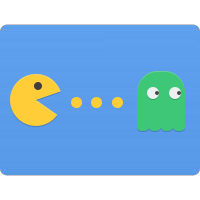
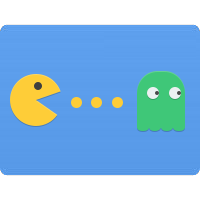
Remove white backgrounf from no_preview_button.png image.

Changed region(s): [[0.0, 0.12, 1.0, 0.15], [0.03, 0.87, 0.99, 0.9], [0.99, 0.84, 1.0, 0.87]]

diff --git a/scripts/common.js b/scripts/common.js
@@ -810,7 +810,7 @@ function imgPrev(infile, mode, gen, compare, index, dir, referer, data) {
         case 0:
            if ( gen == 0 ) {
            // Preview doesn't exist
-           html = "<img src=\"images/no_preview.jpg\" alt=\"No preview\">"
+           html = "<img src=\"images/no_preview_button.png\" alt=\"No preview\">"
                   + "<br />No preview available";
 
            } else {

diff --git a/inc/Fileserver.php b/inc/Fileserver.php
@@ -1619,7 +1619,7 @@ class Fileserver
             $ret = "<img src=\"file_management.php?getThumbnail=$thumb&amp;" .
                 "dir=$dir\" alt=\"preview\" />";
         } else {
-            $imgsrc = "<img src=\"images/no_preview.jpg\" alt=\"No preview\" />";
+            $imgsrc = "<img src=\"images/no_preview_button.png\" alt=\"No preview\" />";
             // $ret = "<p><center>No preview available.</center></p>";
             $ret = "$imgsrc<br />No preview available";
         }
@@ -1651,7 +1651,7 @@ class Fileserver
         $files = $this->findStrip($file, $type, $dir);
 
         if (count($files) != 1) {
-            echo "<img src=\"images/no_preview.jpg\">";
+            echo "<img src=\"images/no_preview_button.png\">";
             return;
         }
         preg_match("/strip_(.+)x(.+)x(.+)_fr/", $files[0], $match);
@@ -2494,9 +2494,9 @@ class Fileserver
         $path = $dir . "/hrm_previews/" . $base;
         $path = stripslashes($path);
         if (!file_exists($path)) {
-            $path = "images/no_preview.jpg";
+            $path = "images/no_preview_button.png";
         }
-        header("Content-Type: image/jpeg");
+        header("Content-Type: image/png");
         readfile($path);
     }
 
@@ -2520,8 +2520,8 @@ class Fileserver
 
         $path = stripslashes($dirname . "/hrm_previews/" . $basename);
         if (!file_exists($path)) {
-            $path = "images/no_preview.jpg";
-            header("Content-Type: image/jpeg");
+            $path = "images/no_preview_button.png";
+            header("Content-Type: image/png");
             readfile($path);
         }
 
